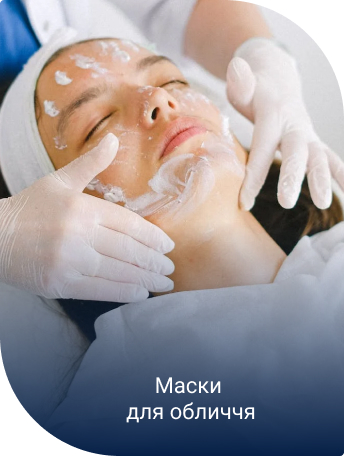
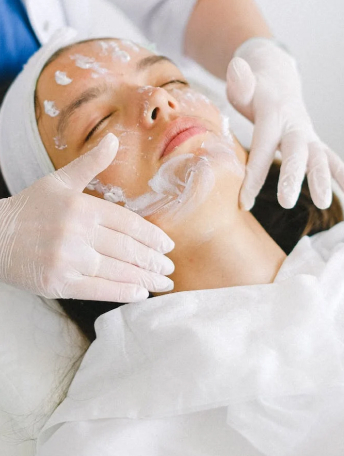
CSS decoration updates

diff --git a/CSS/styles.css b/CSS/styles.css
@@ -93,6 +93,7 @@ address {
   padding-top: 32px;
   padding-bottom: 32px;
   padding-left: 99px;
+  height: 106px;
 }
 .header-container {
   display: flex;
@@ -171,9 +172,9 @@ address {
 }
 /*Sections Styles*/
 .hero-section {
-  padding-top: 16.5px;
-  padding-bottom: 126.8px;
-  padding-left: 206px;
+  padding-top: 122.5px;
+  padding-bottom: 200px;
+  padding-left: 244px;
   background-image: linear-gradient(
       89deg,
       #fff 30.62%,
@@ -183,8 +184,9 @@ address {
     ),
     url("../images/hero-pic.jpg");
   background-repeat: no-repeat;
-  background-position: center;
   background-size: contain;
+  background-position: center;
+  margin-top: -106px;
 }
 .transformation-section {
   padding-top: 40px;
@@ -257,6 +259,17 @@ address {
   gap: 32px;
   align-items: center;
 }
+.procedure-img {
+  border-radius: 4px 120px;
+  background-image: linear-gradient(
+    180deg,
+    rgba(1, 28, 68, 0) 48.53%,
+    rgba(1, 28, 68, 0.73) 84.61%,
+    #011c44 101.39%
+  );
+  width: 344px;
+  height: 456px;
+}
 .procedure-title {
   width: 510px;
   text-align: center;
@@ -265,6 +278,17 @@ address {
 .procedure-cards {
   display: flex;
   gap: 16px;
+}
+.procedure-cards-texst {
+  font-size: 22px;
+  padding-top: 372px;
+  padding-bottom: 32px;
+  padding-left: 115px;
+  padding-right: 77px;
+  height: 52px;
+  line-height: 1.1;
+  color: var(--color-primary-light);
+  text-align: center;
 }
 /* Carousel button styles*/
 .carousel-button {
@@ -285,6 +309,7 @@ address {
   border-color: var(--color-brand-light);
   padding: o;
 }
+
 /* Contact section styles*/
 
 .contacts-container {

diff --git a/index.html b/index.html
@@ -177,18 +177,21 @@
             </button>
             <ul class="list procedure-cards">
               <li>
-                <article>
-                  <img src="./images/face-1.jpg" alt="Маска для обличчя" />
+                <article class="procedure-img">
+                  <!--<img src="./images/face-1.jpg" alt="Маска для обличчя" /> -->
+                  <p class="procedure-cards-texst">Маски для обличчя</p>
                 </article>
               </li>
               <li>
-                <article>
-                  <img src="./images/face-2.jpg" alt="Ін'єкції" />
+                <article class="procedure-img">
+                  <!--<img src="./images/face-2.jpg" alt="Ін'єкції" />-->
+                  <p class="procedure-cards-texst">Ін'єкції для обличчя</p>
                 </article>
               </li>
               <li>
-                <article>
-                  <img src="./images/face-3.jpg" alt="Очищення обличчя" />
+                <article class="procedure-img">
+                  <!--<img src="./images/face-3.jpg" alt="Очищення обличчя" />-->
+                  <p class="procedure-cards-texst">Очищення обличчя</p>
                 </article>
               </li>
             </ul>
